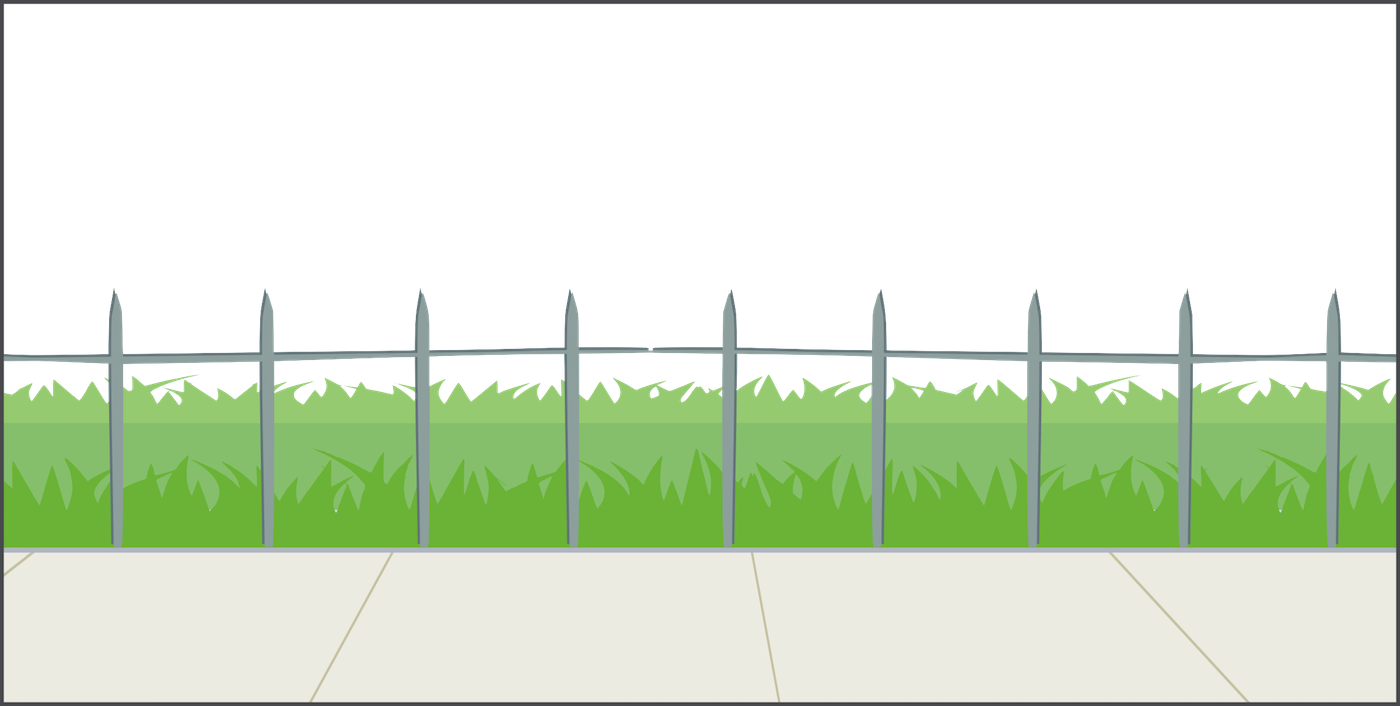
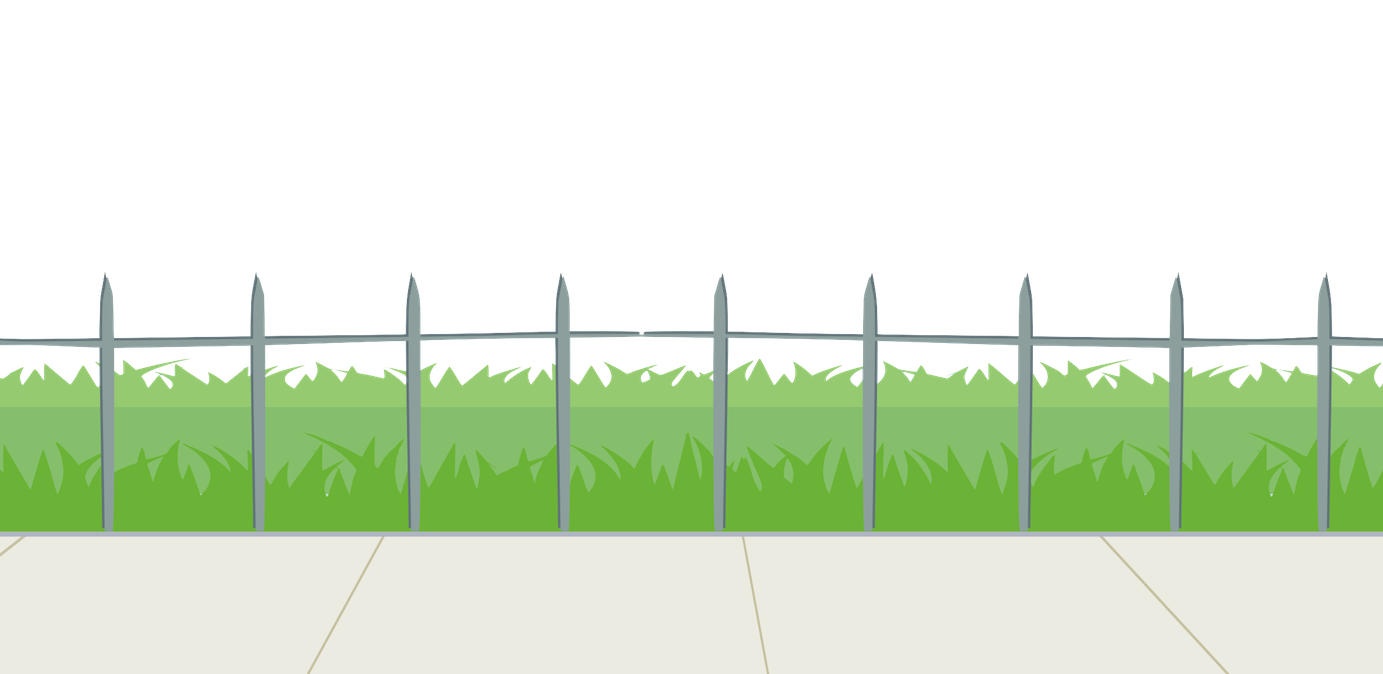
add skip the rope timings

diff --git a/beatles.js b/beatles.js
@@ -30,6 +30,9 @@ const meadow = $("#meadow");
 const tree = $("#tree");
 const lumberjack = $("#lumberjack");
 const bird = $("#bird");
+const sidewalk = $("#sidewalk");
+const treeTrunk = $("#tree-trunk");
+const stickJump = $("#stick-jump");
 
 const keyFrames = {
   "one": changeImgCrop.bind(null, {top: 0, right: 385, bottom: 381, left: 0}),
@@ -52,13 +55,16 @@ const keyFrames = {
   "g": showImage.bind(beatlesOutside, {top: 69, left: 26}),
   "i": showImage.bind(beatlesOutside, {top: 69, left: 8}),
   "j": showImage.bind(beatlesOutside, {top: 50, left: 50, centered: true}),
-  "waves": showImage.bind(waves, {}, false),
-  "sky": showImage.bind(mainContainer, {class: "skyblue"}, false),
-  "ship": showImage.bind(ship, {}, false),
-  "meadow": showImage.bind(meadow, {}),
-  "tree": showImage.bind(tree, {}, false),
-  "lumberjack": showImage.bind(lumberjack, {}, false),
-  "bird": showImage.bind(bird, {}, false)
+  "waves": showImage.bind(waves, {}, true),
+  "sky": showImage.bind(mainContainer, {class: "skyblue"}),
+  "ship": showImage.bind(ship),
+  "meadow": showImage.bind(meadow, {}, true),
+  "tree": showImage.bind(tree),
+  "lumberjack": showImage.bind(lumberjack),
+  "bird": showImage.bind(bird),
+  "sidewalk": showImage.bind(sidewalk, {}, true),
+  "trunk": showImage.bind(treeTrunk),
+  "skip": showImage.bind(stickJump)
 };
 
 // Timings for keyframes
@@ -91,7 +97,11 @@ const timings = {
   "33.9": "sky",
   "34.0": "tree",
   "34.6": "lumberjack",
-  "35.2": "bird"
+  "35.2": "bird",
+  "35.9": "sidewalk",
+  "36.3": "sky",
+  "36.5": "trunk",
+  "37.1": "skip"
 };
 
 function changeImgCrop(args={}) {
@@ -127,7 +137,7 @@ function alphaImage() {
   this.css("opacity", "1");
 }
 
-function showImage(args={}, hide=true) {
+function showImage(args={}, hide=false) {
   if(hide) {
     assets.children().hide();
   }
@@ -185,7 +195,7 @@ const startAudioEventListener = function() {
       timingChecker();
     }, 100);
   });
-};
+}
 
 const stopAudioEventListener = function() {
   $(audio).on("pause", function() {
@@ -196,6 +206,6 @@ const stopAudioEventListener = function() {
 
 // Start with all the assets hidden
 assets.children().hide();
-$(".chop").show();
+// $(".rope").show();
 // DEBUG!
 audio.currentTime = 30;

diff --git a/styles.css b/styles.css
@@ -49,10 +49,8 @@ h2 {
   border-radius: 15px;
   position: relative;
   overflow: hidden;
-  text-align: center;
-  vertical-align: middle;
   color: black;
-  box-shadow:0 0 5px 5px rgba(0,0,0,0.1)
+  box-shadow:0 0 5px 5px rgba(0,0,0,0.1);
 }
 
 .whitebg {
@@ -67,6 +65,7 @@ h2 {
 }
 
 .centered {
+  text-align: center;
   font-size: 1.5em;
   position: absolute;
   top: 50%;
@@ -170,6 +169,7 @@ h2 {
   z-index: 2;
   transform: scale(1.5);
   bottom: 160px;
+  right: -76px;
 }
 
 #lumberjack {
@@ -187,6 +187,27 @@ h2 {
   right: 35%;
   z-index: 1;
   animation: birdFly 1.2s linear 1;
+}
+
+/*Skip the Rope*/
+
+#sidewalk {
+  position: absolute;
+  bottom: 0px;
+  z-index: 2;
+}
+
+#tree-trunk {
+  z-index: 1;
+  position: absolute;
+  top: -107px;
+}
+
+#stick-jump {
+  position: absolute;
+  z-index: 3;
+  bottom: -416px;
+  transform: scale(.6);
 }
 
 audio {

diff --git a/index.html b/index.html
@@ -51,6 +51,9 @@
       <img id="tree" class="chop" src="images/tree/tree.png">
       <img id="lumberjack" class="chop" src="images/tree/lumberjack.png">
       <img id="bird" class="chop" src="images/tree/bird.gif">
+      <img id="sidewalk" class="rope" src="images/rope/sidewalk.png" alt="sidewalk">
+      <img id="tree-trunk" class="rope" src="images/rope/tree-trunk.png" alt="treetrunk">
+      <img id="stick-jump" class="rope" src="images/rope/stick-jump.gif" alt="stickjump">
     </div>
   </div>
 
